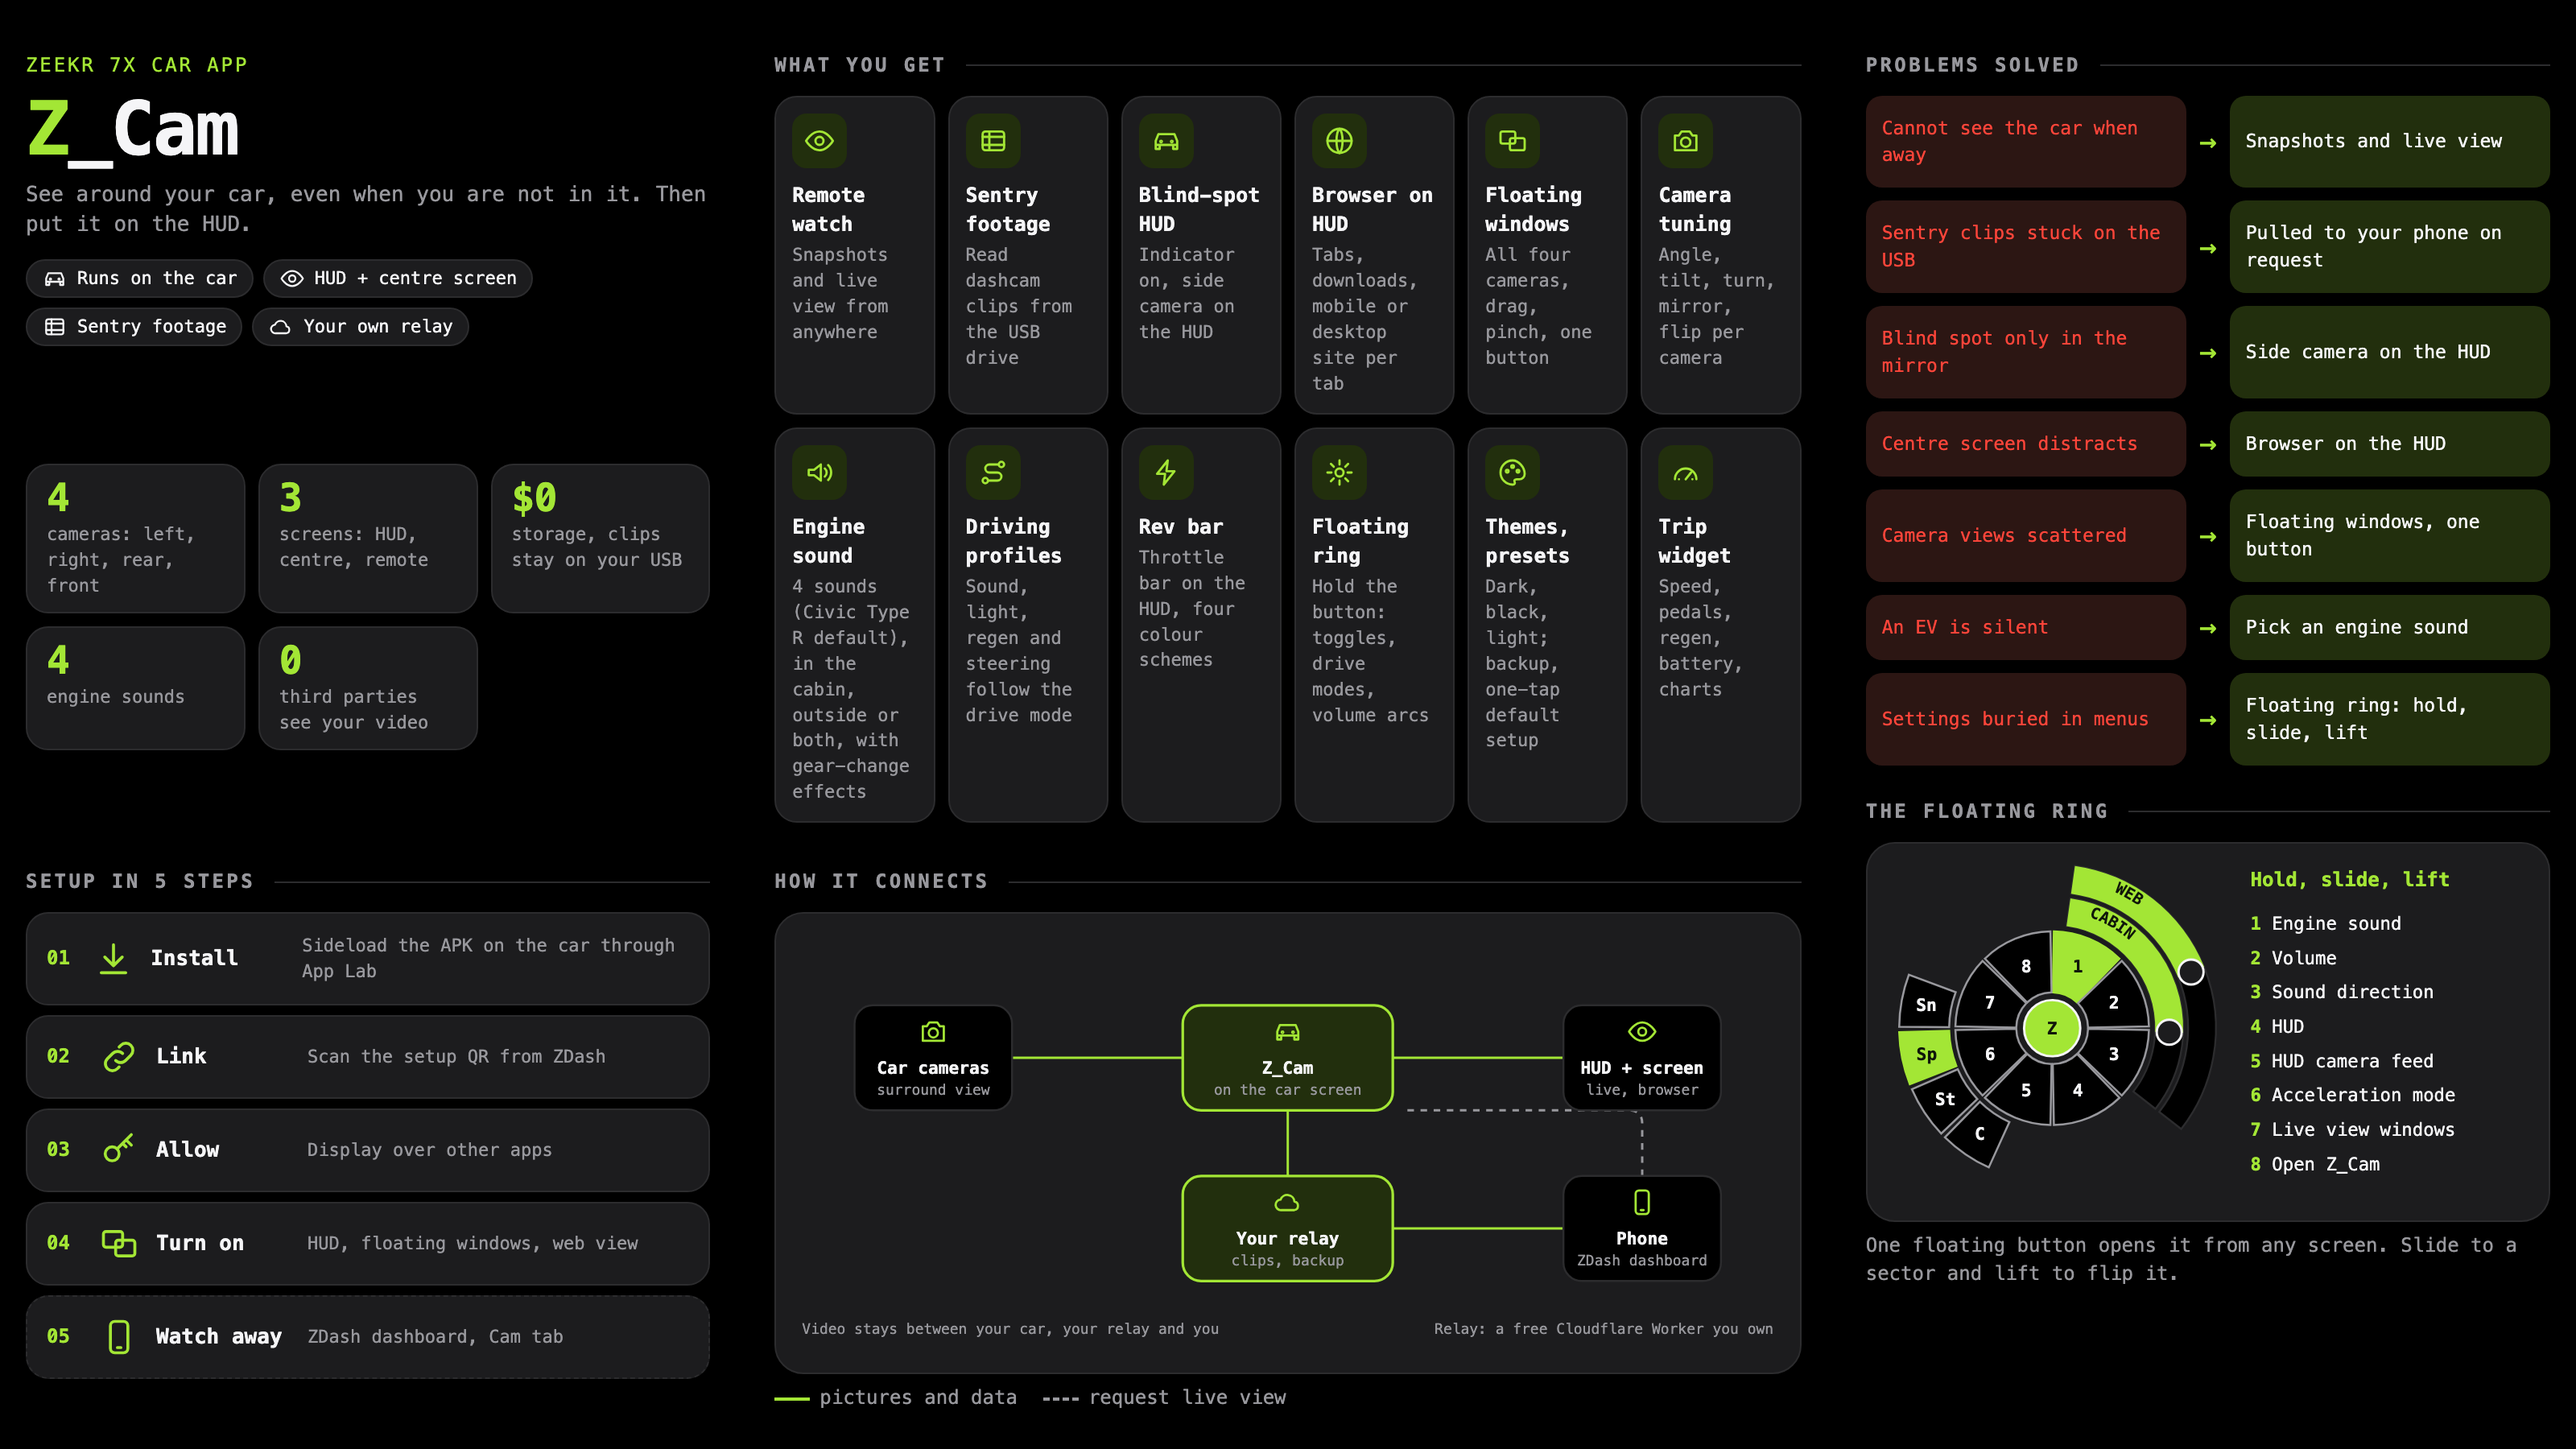
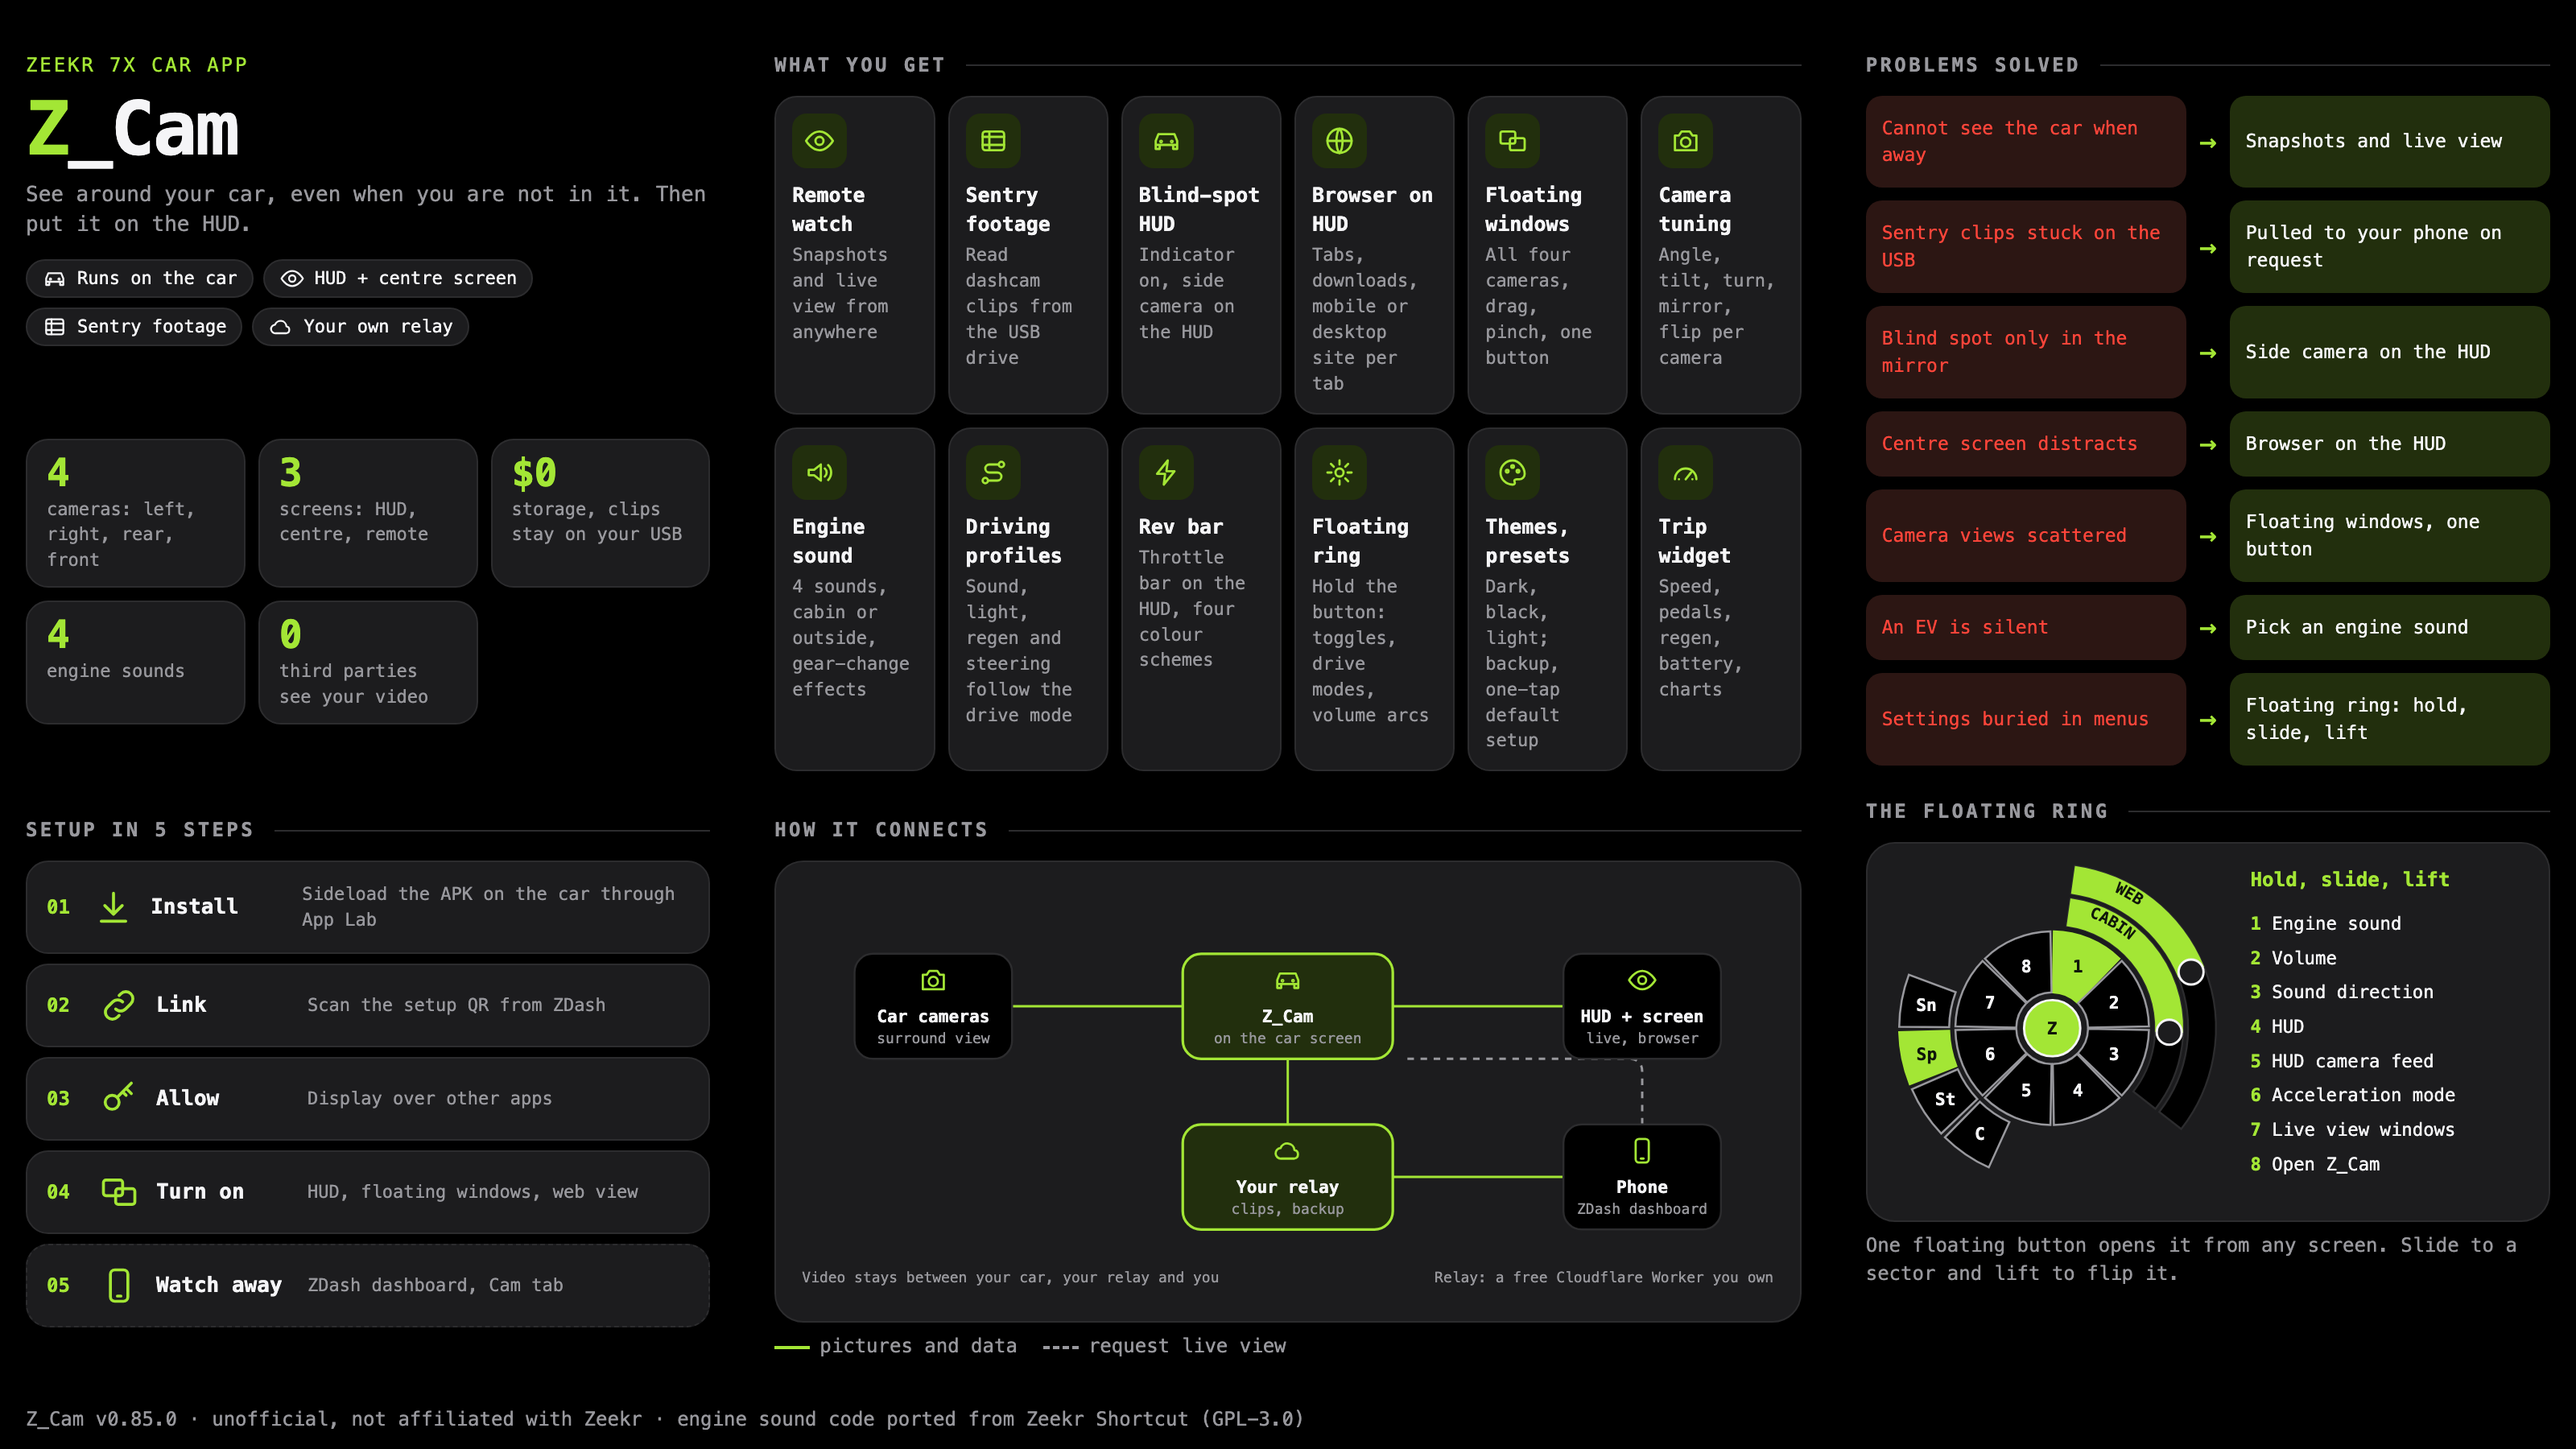
Z_Cam: shorten engine sound tile

Changed region(s): [[0.0, 0.4044, 0.7188, 0.9956], [0.0, 0.28, 0.2812, 0.5289]]

diff --git a/docs/zcam-onepager.html b/docs/zcam-onepager.html
@@ -216,7 +216,7 @@ footer{color:var(--muted);font-size:12px;font-family:var(--mono)}
       <div class="tile"><div class="ic"><svg class="i"><use href="#globe"/></svg></div><b>Browser on HUD</b><span>Tabs, downloads, mobile or desktop site per tab</span></div>
       <div class="tile"><div class="ic"><svg class="i"><use href="#windows"/></svg></div><b>Floating windows</b><span>All four cameras, drag, pinch, one button</span></div>
       <div class="tile"><div class="ic"><svg class="i"><use href="#cam"/></svg></div><b>Camera tuning</b><span>Angle, tilt, turn, mirror, flip per camera</span></div>
-      <div class="tile"><div class="ic"><svg class="i"><use href="#sound"/></svg></div><b>Engine sound</b><span>4 sounds (Civic Type R default), in the cabin, outside or both, with gear-change effects</span></div>
+      <div class="tile"><div class="ic"><svg class="i"><use href="#sound"/></svg></div><b>Engine sound</b><span>4 sounds, cabin or outside, gear-change effects</span></div>
       <div class="tile"><div class="ic"><svg class="i"><use href="#route"/></svg></div><b>Driving profiles</b><span>Sound, light, regen and steering follow the drive mode</span></div>
       <div class="tile"><div class="ic"><svg class="i"><use href="#bolt"/></svg></div><b>Rev bar</b><span>Throttle bar on the HUD, four colour schemes</span></div>
       <div class="tile"><div class="ic"><svg class="i"><use href="#auto"/></svg></div><b>Floating ring</b><span>Hold the button: toggles, drive modes, volume arcs</span></div>
